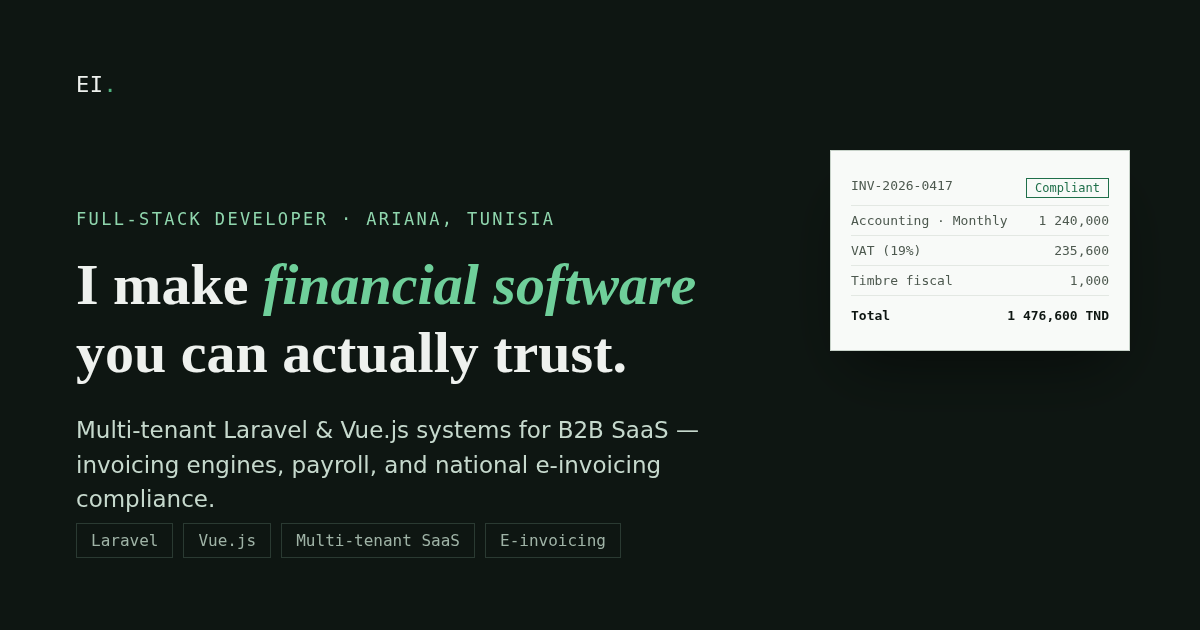
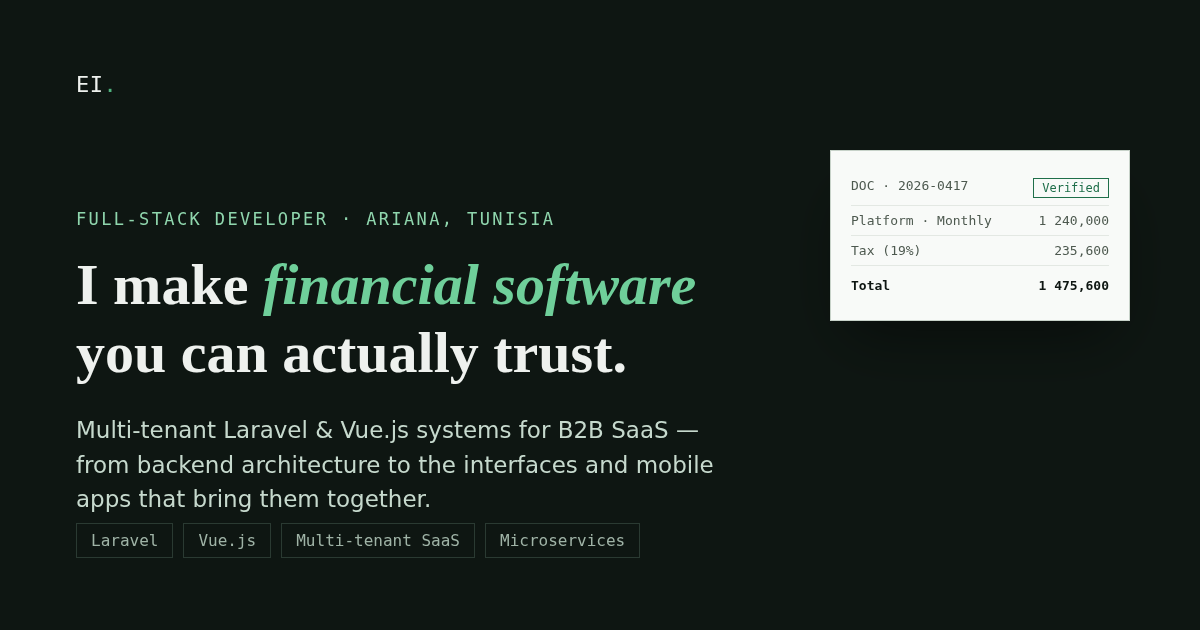
Remove Iberis project details and fix card layout gap
Drop both Iberis project cards, tech stack tags, and product-specific
copy from the bio/hero/skills at the employer's request — the
Experience entry is now reduced to role and dates only. Also fixes
the empty gap under cards with fewer tags/links, caused by
margin-top: auto bottom-aligning the highlights toggle across
mismatched-height siblings in the same grid row.

diff --git a/src/data/content.js b/src/data/content.js
@@ -10,12 +10,12 @@ export const profile = {
 
 export const bio = {
   quote:
-    "I build the financial backbone of B2B SaaS products — multi-tenant Laravel and Vue.js systems that turn regulatory complexity into software you can trust. Over the past three years I've shipped invoicing and accounting engines, HR & payroll platforms, and geofenced mobile apps now running in production across Tunisia. I'm most useful on the problems other developers avoid: exact calculation logic, tenant isolation, and the edge cases where a rounding error becomes a compliance incident.",
+    "I build the backbone of B2B SaaS products — multi-tenant Laravel and Vue.js systems that turn regulatory and operational complexity into software you can trust. Over the past three years I've shipped production systems across social commerce, public transit ticketing, and financial compliance in Tunisia. I'm most useful on the problems other developers avoid: exact calculation logic, tenant isolation, and the edge cases where a small mistake becomes an incident.",
   strengths: [
     {
       title: "Regulatory-grade engineering",
       detail:
-        "Built Tunisia's TTN / El Fatoora e-invoicing integration and encoded national tax and labor law directly into core calculation logic, where correctness isn't optional.",
+        "Comfortable owning the parts of a system where correctness isn't optional — exact calculation logic, tax and compliance rules, and the edge cases that turn a rounding error into an incident.",
     },
     {
       title: "Full-stack, full lifecycle",
@@ -41,42 +41,6 @@ export const bio = {
 };
 
 export const projects = [
-  {
-    slug: "iberis-finances",
-    name: "Iberis Finances",
-    tagline: "Multi-tenant financial SaaS that speaks fluent Tunisian tax law.",
-    role: "Iberis",
-    dates: "Dec 2025 – Present",
-    problem:
-      "Tunisian businesses need to issue legally compliant invoices, quotations, and ledger entries while meeting a new national e-invoicing mandate — across many isolated client organizations sharing one platform.",
-    stack: ["Laravel", "Vue.js", "MySQL", "Redis", "Swagger"],
-    highlights: [
-      "Owns calculation logic guaranteeing exact amount consistency across invoicing, quotations, payments, inventory, and ledger entries",
-      "Built the integration to Tunisia's national e-invoicing system (TTN / El Fatoora) plus multiple local payment gateways",
-      "Encoded Tunisian accounting and tax-compliance rules directly into document and payment workflows",
-      "Designed a modular Laravel architecture documented end-to-end with Swagger",
-    ],
-    visual: "ledger",
-    links: [{ label: "Live platform", url: "https://finances.iberis.io/" }],
-  },
-  {
-    slug: "iberis-rh",
-    name: "Iberis RH & Geo-Attendance",
-    tagline: "Payroll, permissions, and a phone that knows when you've actually walked into the office.",
-    role: "Iberis",
-    dates: "Dec 2025 – Present",
-    problem:
-      "Clients needed an HR platform — leave, org hierarchy, roles — plus Tunisian-compliant payroll, and a mobile app that verifies attendance by location without being easily spoofed or draining battery.",
-    stack: ["Laravel", "Vue.js", "Ionic", "Capacitor", "Android", "PHPUnit"],
-    highlights: [
-      "Built the HR module: leave management, organizational hierarchy, granular roles and permissions",
-      "Implemented payroll processing compliant with Tunisian labor legislation",
-      "Shipped a geofenced time-and-attendance app; personally debugged native Android location services, permissions, and background sync",
-      "Hardened multi-tenant isolation and added automated PHPUnit coverage",
-    ],
-    visual: "geofence",
-    links: [{ label: "Live platform", url: "https://hr.iberis.io/" }],
-  },
   {
     slug: "netadvisor",
     name: "NetAdvisor",
@@ -123,9 +87,8 @@ export const skills = [
     note: "The scarce skill most candidates don't have.",
     items: [
       "Financial & accounting workflows",
-      "Tunisian tax compliance",
+      "Tax & regulatory compliance",
       "Payroll & labor law",
-      "E-invoicing (TTN / El Fatoora)",
       "Multi-tenant security",
     ],
   },
@@ -162,10 +125,10 @@ export const skills = [
 export const experience = [
   {
     company: "Iberis",
-    role: "Full-Stack Developer (Vue.js | Laravel)",
+    role: "Full-Stack Developer",
     dates: "Dec 2025 – Present",
-    summary: "Financial SaaS + HR/payroll + geo-attendance mobile app.",
-    projectSlug: "iberis-finances",
+    summary: "Details withheld at the employer's request.",
+    projectSlug: null,
   },
   {
     company: "NetAdvisor",

diff --git a/src/components/HeroSection.vue b/src/components/HeroSection.vue
@@ -13,8 +13,8 @@ import { profile } from "../data/content";
         </h1>
         <p class="hero-lede">{{ profile.positioning }}</p>
         <p class="hero-sub">
-          Multi-tenant Laravel &amp; Vue.js systems for B2B SaaS — invoicing engines,
-          payroll, national e-invoicing compliance, and the mobile apps that connect to them.
+          Multi-tenant Laravel &amp; Vue.js systems for B2B SaaS — from backend
+          architecture and APIs to the interfaces and mobile apps that bring them together.
         </p>
         <div class="hero-actions">
           <a href="#work" class="btn btn-primary">View featured work</a>
@@ -25,26 +25,23 @@ import { profile } from "../data/content";
       <div class="hero-visual" aria-hidden="true">
         <div class="doc-card">
           <div class="doc-head">
-            <span>INV-2026-0417</span>
-            <span class="doc-status">Compliant</span>
+            <span>DOC · 2026-0417</span>
+            <span class="doc-status">Verified</span>
           </div>
           <div class="doc-row doc-row-label">
-            <span>Tenant</span><span>Line item</span><span>Amount</span>
+            <span>Client</span><span>Line item</span><span>Amount</span>
           </div>
           <div class="doc-row">
-            <span>Client SARL</span><span>Accounting · Monthly</span><span>1 240,000 TND</span>
+            <span>Client A</span><span>Platform · Monthly</span><span>1 240,000</span>
           </div>
           <div class="doc-row">
-            <span>Client SARL</span><span>VAT (19%)</span><span>235,600 TND</span>
-          </div>
-          <div class="doc-row">
-            <span>Client SARL</span><span>Timbre fiscal</span><span>1,000 TND</span>
+            <span>Client A</span><span>Tax (19%)</span><span>235,600</span>
           </div>
           <div class="doc-divider"></div>
           <div class="doc-row doc-total">
-            <span></span><span>Total</span><span>1 476,600 TND</span>
+            <span></span><span>Total</span><span>1 475,600</span>
           </div>
-          <div class="doc-seal">TTN · El Fatoora ✓</div>
+          <div class="doc-seal">Balanced to the cent ✓</div>
         </div>
         <div class="doc-card doc-card-back" aria-hidden="true"></div>
       </div>

diff --git a/src/components/WorkSection.vue b/src/components/WorkSection.vue
@@ -8,10 +8,10 @@ import ProjectCard from "./ProjectCard.vue";
     <div class="container">
       <div class="work-head" v-reveal>
         <p class="eyebrow">02 — Featured work</p>
-        <h2>Four systems, four kinds of complexity</h2>
+        <h2>Two systems, two kinds of complexity</h2>
         <p class="work-sub">
-          Selected for range: financial-domain depth, mobile &amp; native skill, systems
-          architecture, and public-facing polish.
+          Selected for range: real-time systems architecture and public-facing
+          transactional polish.
         </p>
       </div>
 

diff --git a/src/components/ProjectCard.vue b/src/components/ProjectCard.vue
@@ -145,7 +145,6 @@ const highlightsId = `${props.project.slug}-highlights`;
   display: flex;
   align-items: center;
   gap: 8px;
-  margin-top: auto;
   padding: 13px 0 11px;
   border: none;
   border-top: 1px solid var(--rule);
